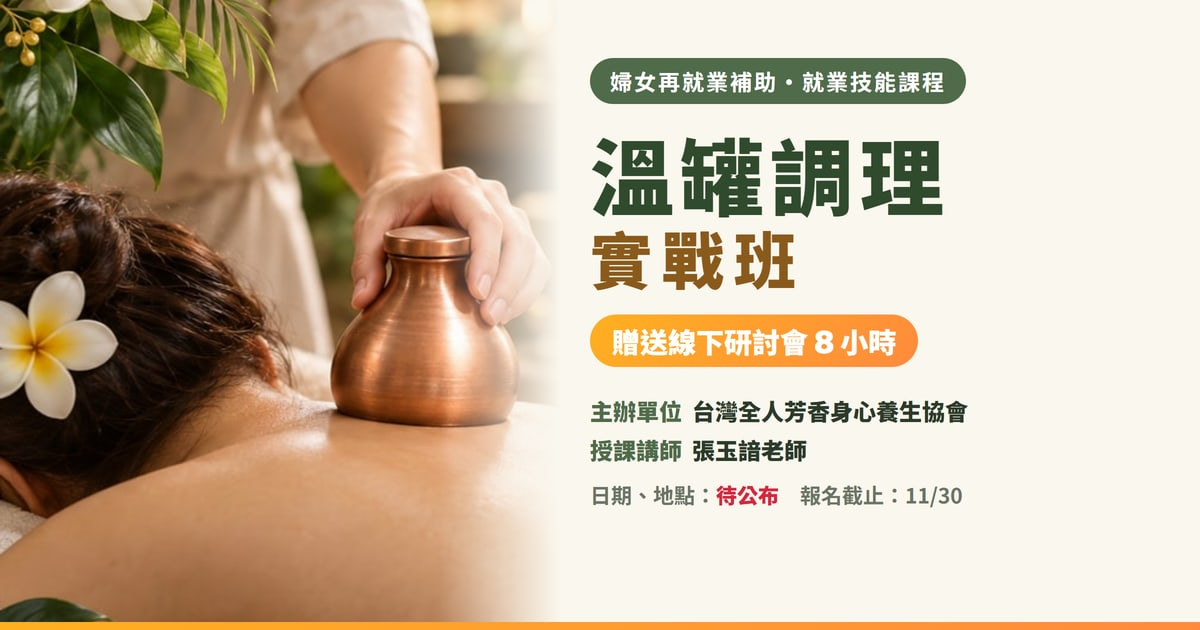
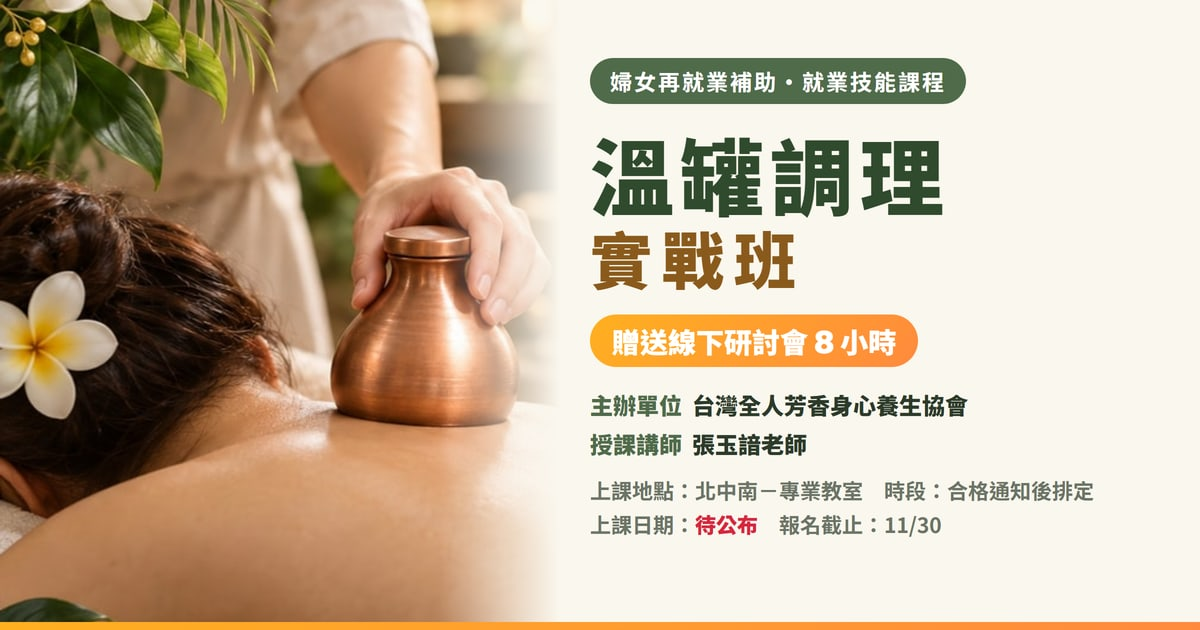
溫罐上課時段／地點改新值、海報還原老闆原圖、og 同步（T627 補）
- 課程資訊：上課時段「收到合格通知書後，再與各位排時間」、上課地點「北中南－專業教室」一般字重；日期維持待公布紅粗
- 海報下提示「日期：待公布　報名截止：11/30」、description 同步
- img-funv-cupping-poster.jpg 還原老闆原圖（老闆定不改），報名頁與 funv 卡 alt、寬高還原
- og-funv-cupping.jpg 重出：加地點、時段（合格通知後排定）

Changed region(s): [[0.4933, 0.6032, 0.925, 0.8746]]

diff --git a/funv-apply-cupping.html b/funv-apply-cupping.html
@@ -13,7 +13,7 @@
 <meta charset="UTF-8">
 <meta name="viewport" content="width=device-width, initial-scale=1">
 <title>台灣全人芳香身心養生協會｜溫罐調理 報名表</title>
-<meta name="description" content="婦女再就業補助的就業技能課程線上報名表：離開公司職場滿 180 天、目前沒有公司勞保的女性可以申請，本頁報名台灣全人芳香身心養生協會主辦的「溫罐調理實戰班」，授課講師張玉諳老師，贈送線下研討會 8 小時；日期、地點待公布，報名截止 11/30。填完表單會有專人打電話跟你確認。">
+<meta name="description" content="婦女再就業補助的就業技能課程線上報名表：離開公司職場滿 180 天、目前沒有公司勞保的女性可以申請，本頁報名台灣全人芳香身心養生協會主辦的「溫罐調理實戰班」，授課講師張玉諳老師，贈送線下研討會 8 小時；上課地點北中南－專業教室，時段在收到合格通知書後再排，日期待公布，報名截止 11/30。填完表單會有專人打電話跟你確認。">
 <meta name="author" content="台灣全人芳香身心養生協會">
 <meta name="robots" content="noindex,nofollow">
 <meta property="og:type" content="website">
@@ -172,9 +172,9 @@ fieldset.f legend{padding:0;}
   <!-- 第 1 步：資格與準備 -->
   <section class="step on" id="step1" data-title="資格與準備">
     <figure class="poster">
-      <img src="img-funv-cupping-poster.jpg" alt="溫罐調理實戰班 課程海報：張玉諳老師授課，贈送線下研討會 8 小時，台灣全人芳香身心養生協會主辦，上課日期、時段、地點待公布，報名截止 11/30" width="1054" height="1492" loading="eager" decoding="async">
+      <img src="img-funv-cupping-poster.jpg" alt="溫罐調理 課程海報（講師張玉諳老師）" width="1024" height="1450" loading="eager" decoding="async">
     </figure>
-    <p class="tbd" role="note">日期、地點：待公布　報名截止：11/30</p>
+    <p class="tbd" role="note">日期：待公布　報名截止：11/30</p>
 
     <div class="card">
       <h3>課程資訊</h3>
@@ -183,8 +183,8 @@ fieldset.f legend{padding:0;}
         <p><b>授課講師：</b>張玉諳老師</p>
         <p><b>實戰研討會：</b>贈送線下研討會 8 小時</p>
         <p><b>上課日期：</b><b class="red">待公布</b></p>
-        <p><b>上課時段：</b><b class="red">待公布</b></p>
-        <p><b>上課地點：</b><b class="red">待公布</b></p>
+        <p><b>上課時段：</b>收到合格通知書後，<span style="white-space:nowrap;">再與各位排時間</span></p>
+        <p><b>上課地點：</b>北中南－專業教室</p>
         <p><b>報名截止：</b>11/30</p>
         <p><b>主辦單位：</b><b style="white-space:nowrap;">台灣全人芳香身心養生協會</b></p>
       </div>

diff --git a/funv.html b/funv.html
@@ -219,7 +219,7 @@
     </a>
 
     <a class="card fcard" href="funv-apply-cupping.html">
-      <div class="fthumb"><img src="img-funv-cupping-poster.jpg" alt="溫罐調理實戰班 課程海報・張玉諳老師" width="1054" height="1492" loading="lazy" decoding="async"></div>
+      <div class="fthumb"><img src="img-funv-cupping-poster.jpg" alt="溫罐調理 課程海報・張玉諳老師" width="1024" height="1450" loading="lazy" decoding="async"></div>
       <div class="fbody">
         <h3 class="fname">溫罐調理</h3>
         <p class="fteacher">張玉諳老師</p>
